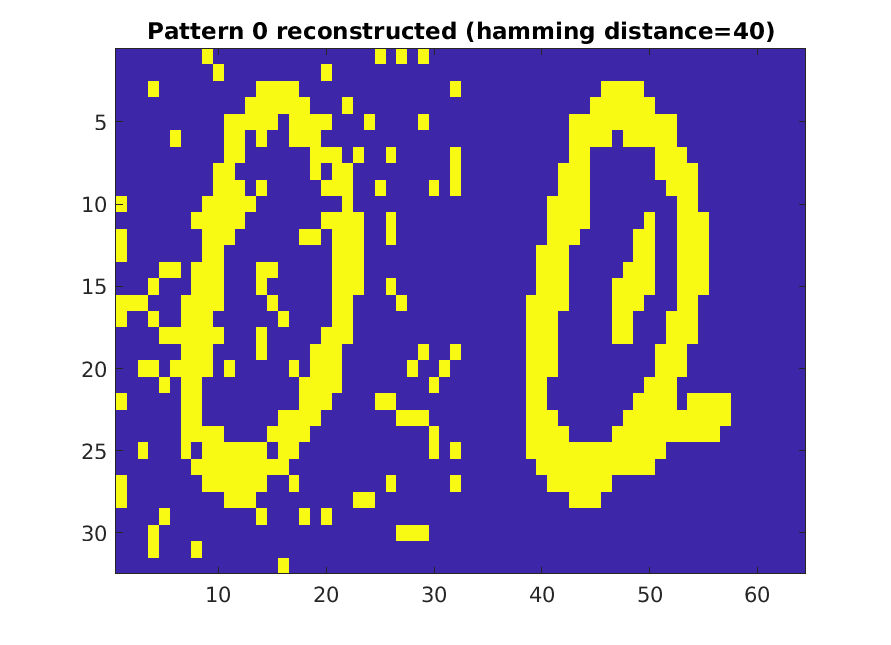
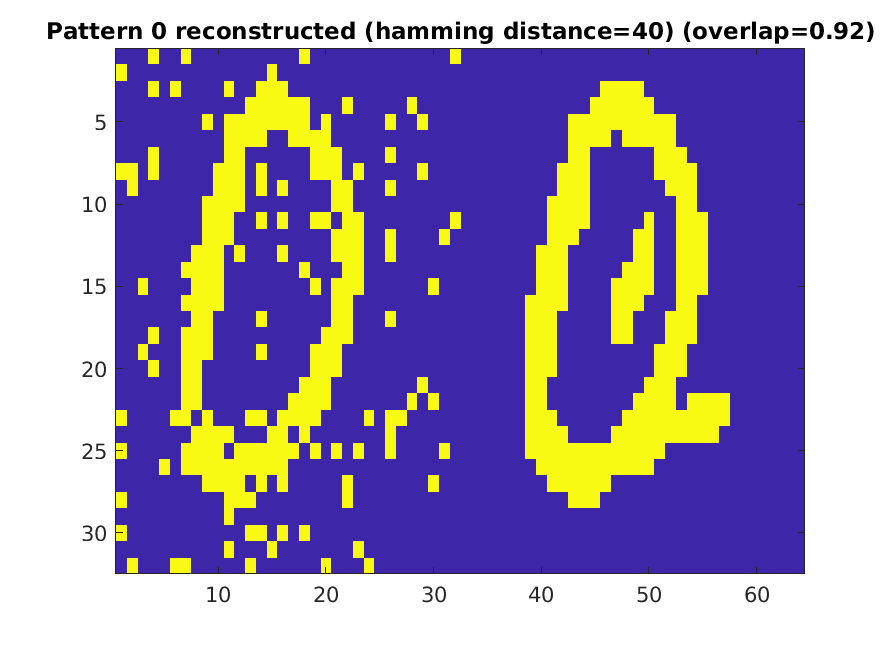
Updated Hopfield net

diff --git a/LAB2_2/Assignment 1/hopfield_network.m b/LAB2_2/Assignment 1/hopfield_network.m
@@ -87,7 +87,7 @@ for p = 1:size(L,1)
     print(fig,sprintf('img/distorted_%d_%0.2f_energy.png', L(p,1), L(p,2)),'-dpng');
     fig = figure;
     imagesc([reshape(O(p,:),32,32) reshape(U(p,:),32,32)])
-    title(sprintf('Pattern %d reconstructed (hamming distance=%d)', L(p,1), hamming_distance(U(p,:), patterns(p,:))));
+    title(sprintf('Pattern %d reconstructed (hamming distance=%d) (overlap=%.2f)', L(p,1), hamming_distance(U(p,:), patterns(p,:)), overlap(patterns(p,:),U(p,:))));
     print(fig,sprintf('img/distorted_%d_%0.2f_reconstructed.png', L(p,1), L(p,2)),'-dpng');
 end
 
